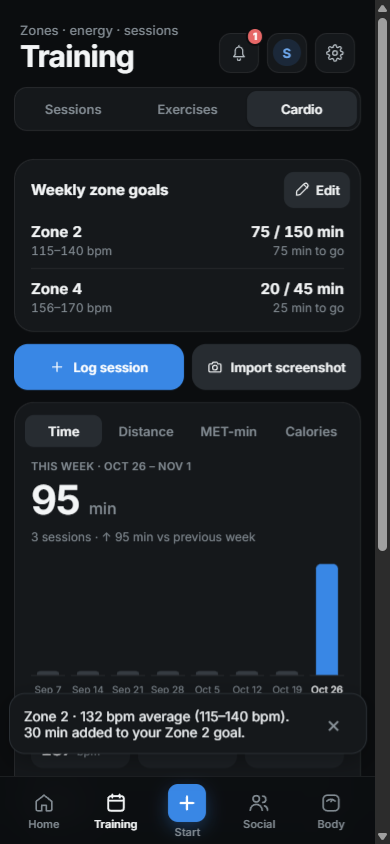
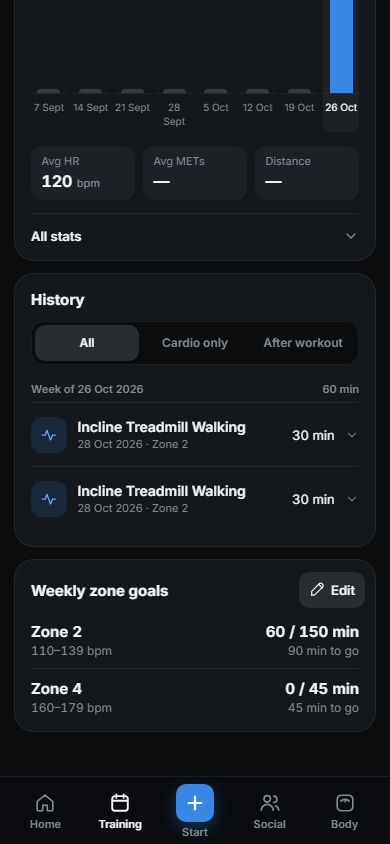
Move cardio zone goals below session history

diff --git a/frontend/src/App.tsx b/frontend/src/App.tsx
@@ -8610,47 +8610,6 @@ export function CardioScreen({
           }}
         />
       )}
-      <section className="pulse-card cardio-goals-summary" aria-labelledby="cardio-goals-title">
-        <header>
-          <h2 id="cardio-goals-title">Weekly zone goals</h2>
-          <button
-            type="button"
-            className="cardio-goals-edit"
-            aria-label="Edit heart-rate zones and goals"
-            onClick={() => setZoneSettingsOpen(true)}
-          >
-            <Icon name="edit" />
-            Edit
-          </button>
-        </header>
-        <ul className="cardio-goal-list">
-          {(overview.goal_weeks ?? [{ zone: 2, ...week }]).map((goal) => {
-            const range = overview.cardio_preferences?.heart_rate_zones.find(
-              (item) => item.zone === goal.zone,
-            );
-            return (
-              <li key={goal.zone} className={goal.complete ? 'complete' : undefined}>
-                <span>
-                  <strong>Zone {goal.zone}</strong>
-                  {range && (
-                    <small>
-                      {range.min_bpm}–{range.max_bpm} bpm
-                    </small>
-                  )}
-                </span>
-                <span>
-                  <b>
-                    {goal.completed_minutes} / {goal.goal_minutes} min
-                  </b>
-                  <small>
-                    {goal.complete ? 'Goal reached' : `${goal.remaining_minutes} min to go`}
-                  </small>
-                </span>
-              </li>
-            );
-          })}
-        </ul>
-      </section>
       {error && <p className="inline-error">{error}</p>}
       {metricSession && (
         <CardioMetricsEditor
@@ -9090,6 +9049,47 @@ export function CardioScreen({
           onPageChange={setHistoryPage}
           label="cardio history"
         />
+      </section>
+      <section className="pulse-card cardio-goals-summary" aria-labelledby="cardio-goals-title">
+        <header>
+          <h2 id="cardio-goals-title">Weekly zone goals</h2>
+          <button
+            type="button"
+            className="cardio-goals-edit"
+            aria-label="Edit heart-rate zones and goals"
+            onClick={() => setZoneSettingsOpen(true)}
+          >
+            <Icon name="edit" />
+            Edit
+          </button>
+        </header>
+        <ul className="cardio-goal-list">
+          {(overview.goal_weeks ?? [{ zone: 2, ...week }]).map((goal) => {
+            const range = overview.cardio_preferences?.heart_rate_zones.find(
+              (item) => item.zone === goal.zone,
+            );
+            return (
+              <li key={goal.zone} className={goal.complete ? 'complete' : undefined}>
+                <span>
+                  <strong>Zone {goal.zone}</strong>
+                  {range && (
+                    <small>
+                      {range.min_bpm}–{range.max_bpm} bpm
+                    </small>
+                  )}
+                </span>
+                <span>
+                  <b>
+                    {goal.completed_minutes} / {goal.goal_minutes} min
+                  </b>
+                  <small>
+                    {goal.complete ? 'Goal reached' : `${goal.remaining_minutes} min to go`}
+                  </small>
+                </span>
+              </li>
+            );
+          })}
+        </ul>
       </section>
     </div>
   );

diff --git a/frontend/src/CardioScreen.test.tsx b/frontend/src/CardioScreen.test.tsx
@@ -172,7 +172,7 @@ describe('cardio weekly trend screen', () => {
     const notice = document.querySelector('.app-notification-toast')!;
     expect(notice.textContent).toContain('Zone 2 · 120 bpm average (110–139 bpm)');
     expect(notice.querySelector('svg, canvas')).toBeNull();
-    await click(named('Edit'));
+    await click(container.querySelector('[aria-label="Edit heart-rate zones and goals"]')!);
     expect(document.querySelector('dialog')!.textContent).toContain('Personal ranges (bpm)');
   });
   it.each(['en-AU', 'en-US'])(

diff --git a/docs/RELEASE-NOTES.md b/docs/RELEASE-NOTES.md
@@ -8,9 +8,9 @@ _Relay was called Gym Logger before version 1.0._
 
 ### Find friends and improve your workouts
 
-![Cardio screen listing weekly Zone 2 and Zone 4 goals with their personal heart-rate ranges and minutes, and a text notification for a logged session](screenshots/releases/1.1.0-personal-heart-rate-zones.png)
+![Cardio History followed by weekly Zone 2 and Zone 4 goals with personal heart-rate ranges and minutes](screenshots/releases/1.1.0-personal-heart-rate-zones.png)
 
-_Each weekly zone goal shows its personal range and progress; logging a session reports its estimated zone in a brief text notification. Edit ranges and goals from **Training > Cardio**. Synthetic sample data._
+_Weekly zone goals sit below History and show each personal range and progress. Edit ranges and goals from **Training > Cardio**. Logging a session reports its estimated zone in a brief text notification. Synthetic sample data._
 
 ![Training shows one sample workout saved for 45 minutes and the Start action after recovering an interrupted save](screenshots/releases/1.1.0-workout-save-recovery.png)
 
@@ -80,7 +80,7 @@ _Equipment photo opens directly to its controls in this isolated sample workout.
 
 _The exercise card ends at Add set. Set notes and workout notes remain available. Isolated sample data._
 
-- Set your own five heart-rate zone ranges with Edit on Training > Cardio > Weekly zone goals. Keep the default 150-minute weekly Zone 2 target, change its minutes or zone, and add separate weekly goals for other zones. Once ranges are set, average heart rate estimates each session's zone and only matching sessions count towards that zone's goal; missing or out-of-range heart rate receives no zone credit. Until then, sessions keep counting as Zone 2 as before. A brief text notification shows the result. Editing ranges recalculates existing sessions and goals; cardio logged inside workouts follows the same rules.
+- Set your own five heart-rate zone ranges with Edit on Training > Cardio > Weekly zone goals, below History. Keep the default 150-minute weekly Zone 2 target, change its minutes or zone, and add separate weekly goals for other zones. Once ranges are set, average heart rate estimates each session's zone and only matching sessions count towards that zone's goal; missing or out-of-range heart rate receives no zone credit. Until then, sessions keep counting as Zone 2 as before. A brief text notification shows the result. Editing ranges recalculates existing sessions and goals; cardio logged inside workouts follows the same rules.
 - Cardio screenshot scans discard the uploaded photo and release the decoded image after OCR, including when a scan fails. Only extracted workout values are returned; photos are not saved to your account.
 - Fixed unintended workout timers after opening an old workout link or returning through browser history. Finished or discarded workouts stop in other tabs on the same device. Retrying a save after a connection interruption returns the original saved workout instead of creating a duplicate or replacing its duration with a three-hour auto-save. Unfinished workouts remain local to their device; cross-device history sync does not transfer an active session.
 - Add any machine setting name and numeric value while naming a new machine, then Save and pin everything together. Choosing a saved machine records its own settings with the workout. Equipment photo shows only machine photos, without a settings editor, and the exercise menu no longer has a Settings action. The muscle set credits popup shows only muscle credits. Workouts keep their original settings snapshot.
